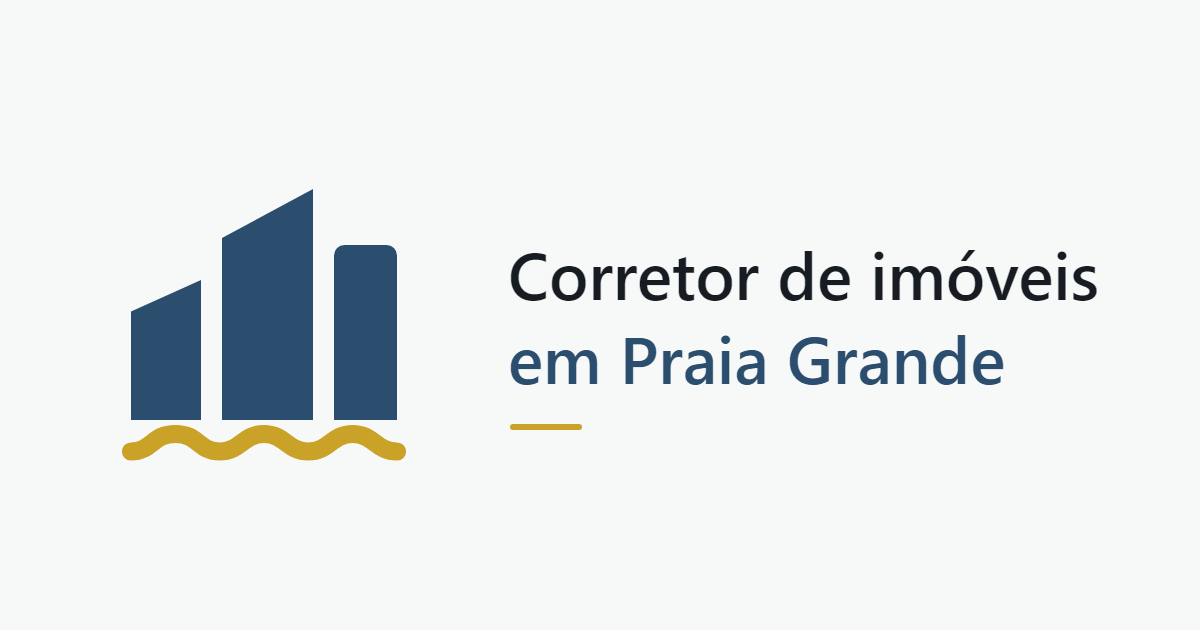
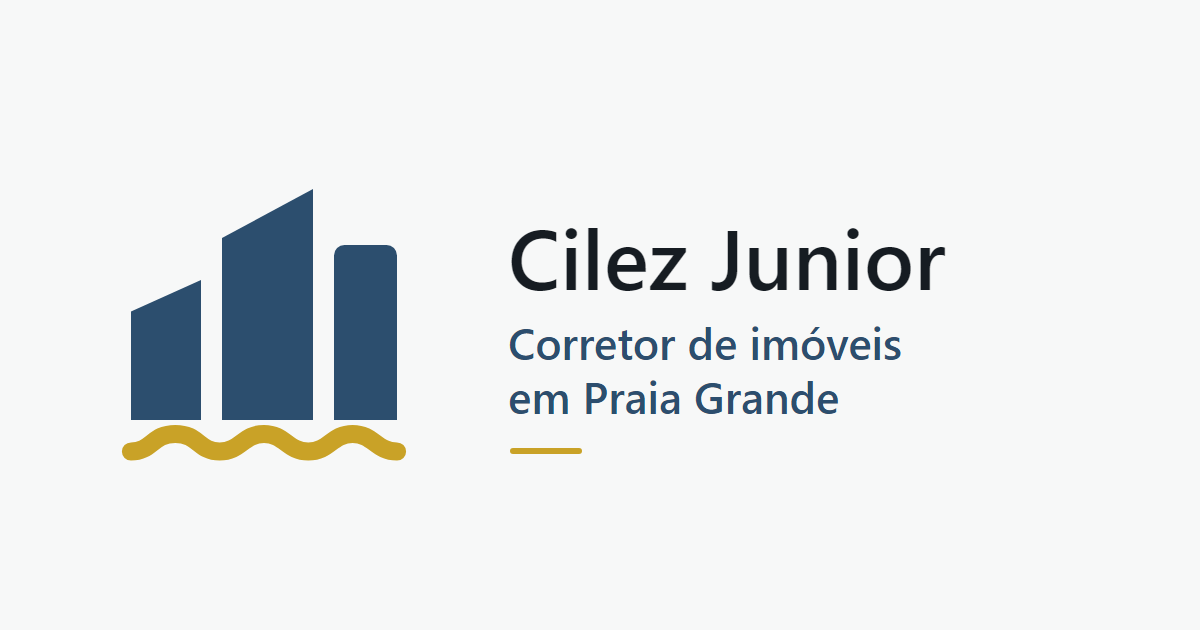
Versao final com o nome real

Changed region(s): [[0.4008, 0.5127, 0.8325, 0.7238], [0.4008, 0.3619, 0.925, 0.4825]]

diff --git a/index.html b/index.html
@@ -3,12 +3,12 @@
 <head>
 <meta charset="utf-8">
 <meta name="viewport" content="width=device-width, initial-scale=1">
-<title>Sua Marca: corretor de imóveis em Praia Grande</title>
+<title>Cilez Junior: corretor de imóveis em Praia Grande</title>
 <meta name="description" content="Corretor de imóveis em Praia Grande. Compra, venda, aluguel e avaliação, também em Santos e São Vicente.">
 <link rel="canonical" href="https://lugusofficial.github.io/corretor-imoveis-baixada-santista/">
 <meta property="og:type" content="website">
-<meta property="og:site_name" content="Sua Marca">
-<meta property="og:title" content="Sua Marca: corretor de imóveis em Praia Grande">
+<meta property="og:site_name" content="Cilez Junior">
+<meta property="og:title" content="Cilez Junior: corretor de imóveis em Praia Grande">
 <meta property="og:description" content="Corretor de imóveis em Praia Grande. Compra, venda, aluguel e avaliação, também em Santos e São Vicente.">
 <meta property="og:url" content="https://lugusofficial.github.io/corretor-imoveis-baixada-santista/">
 <meta property="og:image" content="https://lugusofficial.github.io/corretor-imoveis-baixada-santista/assets/og-image.png">
@@ -21,17 +21,17 @@
 <link rel="stylesheet" href="css/tokens.css?v=879065ac">
 <link rel="stylesheet" href="css/base.css?v=556f6445">
 <link rel="stylesheet" href="css/site.css?v=44830575">
-<script type="application/ld+json">{"@context": "https://schema.org", "@type": "RealEstateAgent", "name": "Sua Marca", "url": "https://lugusofficial.github.io/corretor-imoveis-baixada-santista/", "telephone": "+0000000000", "email": "contato@example.com", "address": {"@type": "PostalAddress", "addressLocality": "Praia Grande", "addressRegion": "SP", "addressCountry": "BR"}, "areaServed": [{"@type": "City", "name": "Praia Grande"}, {"@type": "City", "name": "Santos"}, {"@type": "City", "name": "São Vicente"}], "knowsAbout": ["Compra e venda de imóveis", "Locação residencial", "Financiamento imobiliário", "Avaliação de imóveis"], "identifier": [{"@type": "PropertyValue", "propertyID": "CRECI-SP", "value": "115749F"}, {"@type": "PropertyValue", "propertyID": "CNAI", "value": "39604"}]}</script>
+<script type="application/ld+json">{"@context": "https://schema.org", "@type": "RealEstateAgent", "name": "Cilez Junior", "url": "https://lugusofficial.github.io/corretor-imoveis-baixada-santista/", "telephone": "+0000000000", "email": "contato@example.com", "address": {"@type": "PostalAddress", "addressLocality": "Praia Grande", "addressRegion": "SP", "addressCountry": "BR"}, "areaServed": [{"@type": "City", "name": "Praia Grande"}, {"@type": "City", "name": "Santos"}, {"@type": "City", "name": "São Vicente"}], "knowsAbout": ["Compra e venda de imóveis", "Locação residencial", "Financiamento imobiliário", "Avaliação de imóveis"], "identifier": [{"@type": "PropertyValue", "propertyID": "CRECI-SP", "value": "115749F"}, {"@type": "PropertyValue", "propertyID": "CNAI", "value": "39604"}], "sameAs": ["https://www.instagram.com/cilez_junior_imoveis/"]}</script>
 <script src="js/main.js?v=4cf6c0b5" defer></script>
 <script src="js/hero.js?v=8b88a188" defer></script>
 <script src="js/depoimentos.js?v=5f2bf66a" defer></script>
 </head>
 <body>
 <a class="skip-link" href="#main">Pular para o conteúdo</a>
-<svg hidden aria-hidden="true"><symbol id="icon-menu" viewBox="0 0 24 24"><path d="M4 7h16M4 12h16M4 17h16"/></symbol><symbol id="icon-close" viewBox="0 0 24 24"><path d="M6 6l12 12M18 6L6 18"/></symbol><symbol id="icon-phone" viewBox="0 0 24 24"><path d="M5 4h4l2 5-2.5 1.5a11 11 0 0 0 5 5L15 13l5 2v4a2 2 0 0 1-2 2A16 16 0 0 1 3 6a2 2 0 0 1 2-2"/></symbol><symbol id="icon-whatsapp" viewBox="0 0 24 24"><path d="M17.472 14.382c-.297-.149-1.758-.867-2.03-.967-.273-.099-.471-.148-.67.15-.197.297-.767.966-.94 1.164-.173.199-.347.223-.644.075-.297-.15-1.255-.463-2.39-1.475-.883-.788-1.48-1.761-1.653-2.059-.173-.297-.018-.458.13-.606.134-.133.298-.347.446-.52.149-.174.198-.298.298-.497.099-.198.05-.371-.025-.52-.075-.149-.669-1.612-.916-2.207-.242-.579-.487-.5-.669-.51-.173-.008-.371-.01-.57-.01-.198 0-.52.074-.792.372-.272.297-1.04 1.016-1.04 2.479 0 1.462 1.065 2.875 1.213 3.074.149.198 2.096 3.2 5.077 4.487.709.306 1.262.489 1.694.625.712.227 1.36.195 1.871.118.571-.085 1.758-.719 2.006-1.413.248-.694.248-1.289.173-1.413-.074-.124-.272-.198-.57-.347m-5.421 7.403h-.004a9.87 9.87 0 0 1-5.031-1.378l-.361-.214-3.741.982.998-3.648-.235-.374a9.86 9.86 0 0 1-1.51-5.26c.001-5.45 4.436-9.884 9.888-9.884 2.64 0 5.122 1.03 6.988 2.898a9.825 9.825 0 0 1 2.893 6.994c-.003 5.45-4.437 9.884-9.885 9.884m8.413-18.297A11.815 11.815 0 0 0 12.05 0C5.495 0 .16 5.335.157 11.892c0 2.096.547 4.142 1.588 5.945L.057 24l6.305-1.654a11.882 11.882 0 0 0 5.683 1.448h.005c6.554 0 11.89-5.335 11.893-11.893a11.821 11.821 0 0 0-3.48-8.413z"/></symbol><symbol id="icon-map" viewBox="0 0 24 24"><path d="M12 21s-6-5.5-6-11a6 6 0 0 1 12 0c0 5.5-6 11-6 11z"/><circle cx="12" cy="10" r="2"/></symbol><symbol id="icon-mail" viewBox="0 0 24 24"><rect x="3" y="5" width="18" height="14" rx="3"/><path d="m3 7 9 6 9-6"/></symbol><symbol id="icon-chave" viewBox="0 0 24 24"><circle cx="8" cy="15" r="4"/><path d="M11 12l8-8M16 7l2 2M14 9l2 2"/></symbol><symbol id="icon-calc" viewBox="0 0 24 24"><rect x="5" y="3" width="14" height="18" rx="2.5"/><path d="M8.5 7h7M8.5 11.5h1M12 11.5h1M15.5 11.5h0M8.5 15h1M12 15h1M8.5 18h1M12 18h1M15.5 15v3"/></symbol><symbol id="icon-etiqueta" viewBox="0 0 24 24"><path d="M3 12V4.5A1.5 1.5 0 0 1 4.5 3H12l9 9-9 9z"/><circle cx="7.5" cy="7.5" r="1.5"/></symbol><symbol id="icon-casa" viewBox="0 0 24 24"><path d="M3 11l9-7 9 7"/><path d="M5 10v10h14V10"/><path d="M10 20v-5h4v5"/></symbol><symbol id="logo-simbolo" viewBox="0 0 48 48"><g fill="currentColor"><path d="M5 23.5 15 19v20H5z"/><path d="M18 13 31 6v33H18z"/><path d="M34 15.5A1.5 1.5 0 0 1 35.5 14h6a1.5 1.5 0 0 1 1.5 1.5V39h-9z"/></g><path d="M5 43.5c3 0 3-2.5 6.33-2.5s3.33 2.5 6.33 2.5 3.34-2.5 6.34-2.5 3.33 2.5 6.33 2.5 3.33-2.5 6.33-2.5S40 43.5 43 43.5" fill="none" stroke="#C9A227" stroke-width="2.6" stroke-linecap="round"/></symbol><symbol id="icon-arrow" viewBox="0 0 24 24"><path d="M5 12h14M13 6l6 6-6 6"/></symbol></svg>
+<svg hidden aria-hidden="true"><symbol id="icon-menu" viewBox="0 0 24 24"><path d="M4 7h16M4 12h16M4 17h16"/></symbol><symbol id="icon-close" viewBox="0 0 24 24"><path d="M6 6l12 12M18 6L6 18"/></symbol><symbol id="icon-phone" viewBox="0 0 24 24"><path d="M5 4h4l2 5-2.5 1.5a11 11 0 0 0 5 5L15 13l5 2v4a2 2 0 0 1-2 2A16 16 0 0 1 3 6a2 2 0 0 1 2-2"/></symbol><symbol id="icon-whatsapp" viewBox="0 0 24 24"><path d="M17.472 14.382c-.297-.149-1.758-.867-2.03-.967-.273-.099-.471-.148-.67.15-.197.297-.767.966-.94 1.164-.173.199-.347.223-.644.075-.297-.15-1.255-.463-2.39-1.475-.883-.788-1.48-1.761-1.653-2.059-.173-.297-.018-.458.13-.606.134-.133.298-.347.446-.52.149-.174.198-.298.298-.497.099-.198.05-.371-.025-.52-.075-.149-.669-1.612-.916-2.207-.242-.579-.487-.5-.669-.51-.173-.008-.371-.01-.57-.01-.198 0-.52.074-.792.372-.272.297-1.04 1.016-1.04 2.479 0 1.462 1.065 2.875 1.213 3.074.149.198 2.096 3.2 5.077 4.487.709.306 1.262.489 1.694.625.712.227 1.36.195 1.871.118.571-.085 1.758-.719 2.006-1.413.248-.694.248-1.289.173-1.413-.074-.124-.272-.198-.57-.347m-5.421 7.403h-.004a9.87 9.87 0 0 1-5.031-1.378l-.361-.214-3.741.982.998-3.648-.235-.374a9.86 9.86 0 0 1-1.51-5.26c.001-5.45 4.436-9.884 9.888-9.884 2.64 0 5.122 1.03 6.988 2.898a9.825 9.825 0 0 1 2.893 6.994c-.003 5.45-4.437 9.884-9.885 9.884m8.413-18.297A11.815 11.815 0 0 0 12.05 0C5.495 0 .16 5.335.157 11.892c0 2.096.547 4.142 1.588 5.945L.057 24l6.305-1.654a11.882 11.882 0 0 0 5.683 1.448h.005c6.554 0 11.89-5.335 11.893-11.893a11.821 11.821 0 0 0-3.48-8.413z"/></symbol><symbol id="icon-map" viewBox="0 0 24 24"><path d="M12 21s-6-5.5-6-11a6 6 0 0 1 12 0c0 5.5-6 11-6 11z"/><circle cx="12" cy="10" r="2"/></symbol><symbol id="icon-mail" viewBox="0 0 24 24"><rect x="3" y="5" width="18" height="14" rx="3"/><path d="m3 7 9 6 9-6"/></symbol><symbol id="icon-chave" viewBox="0 0 24 24"><circle cx="8" cy="15" r="4"/><path d="M11 12l8-8M16 7l2 2M14 9l2 2"/></symbol><symbol id="icon-calc" viewBox="0 0 24 24"><rect x="5" y="3" width="14" height="18" rx="2.5"/><path d="M8.5 7h7M8.5 11.5h1M12 11.5h1M15.5 11.5h0M8.5 15h1M12 15h1M8.5 18h1M12 18h1M15.5 15v3"/></symbol><symbol id="icon-etiqueta" viewBox="0 0 24 24"><path d="M3 12V4.5A1.5 1.5 0 0 1 4.5 3H12l9 9-9 9z"/><circle cx="7.5" cy="7.5" r="1.5"/></symbol><symbol id="icon-casa" viewBox="0 0 24 24"><path d="M3 11l9-7 9 7"/><path d="M5 10v10h14V10"/><path d="M10 20v-5h4v5"/></symbol><symbol id="logo-simbolo" viewBox="0 0 48 48"><g fill="currentColor"><path d="M5 23.5 15 19v20H5z"/><path d="M18 13 31 6v33H18z"/><path d="M34 15.5A1.5 1.5 0 0 1 35.5 14h6a1.5 1.5 0 0 1 1.5 1.5V39h-9z"/></g><path d="M5 43.5c3 0 3-2.5 6.33-2.5s3.33 2.5 6.33 2.5 3.34-2.5 6.34-2.5 3.33 2.5 6.33 2.5 3.33-2.5 6.33-2.5S40 43.5 43 43.5" fill="none" stroke="#C9A227" stroke-width="2.6" stroke-linecap="round"/></symbol><symbol id="icon-instagram" viewBox="0 0 24 24"><rect x="3" y="3" width="18" height="18" rx="5"/><circle cx="12" cy="12" r="4"/><circle cx="17.5" cy="6.5" r="0.6"/></symbol><symbol id="icon-arrow" viewBox="0 0 24 24"><path d="M5 12h14M13 6l6 6-6 6"/></symbol></svg>
 <header class="site-header">
   <div class="container site-header__inner">
-    <a class="brand" href="#top"><svg class="brand__simbolo" aria-hidden="true" focusable="false"><use href="#logo-simbolo"></use></svg>Sua Marca</a>
+    <a class="brand" href="#top"><svg class="brand__simbolo" aria-hidden="true" focusable="false"><use href="#logo-simbolo"></use></svg>Cilez Junior</a>
     <button class="nav-toggle" type="button" aria-expanded="false" aria-controls="site-nav">
       <svg class="icon icon--menu" aria-hidden="true" focusable="false"><use href="#icon-menu"></use></svg><svg class="icon icon--close" aria-hidden="true" focusable="false" hidden><use href="#icon-close"></use></svg>
       <span class="visually-hidden">Menu</span>
@@ -153,6 +153,7 @@
       <ul class="contact__links cluster">
         <li><a href="tel:+0000000000"><svg class="icon" aria-hidden="true" focusable="false"><use href="#icon-phone"></use></svg>(00) 0000-0000</a></li>
         <li><a href="mailto:contato@example.com"><svg class="icon" aria-hidden="true" focusable="false"><use href="#icon-mail"></use></svg>contato@example.com</a></li>
+        <li><a href="https://www.instagram.com/cilez_junior_imoveis/"><svg class="icon" aria-hidden="true" focusable="false"><use href="#icon-instagram"></use></svg>@cilez_junior_imoveis</a></li>
       </ul>
       <p class="muted">Visitas com hora marcada.</p>
     </div>
@@ -160,10 +161,10 @@
 </main>
 <footer class="site-footer">
   <div class="container stack">
-    <p class="brand"><svg class="brand__simbolo" aria-hidden="true" focusable="false"><use href="#logo-simbolo"></use></svg>Sua Marca</p>
+    <p class="brand"><svg class="brand__simbolo" aria-hidden="true" focusable="false"><use href="#logo-simbolo"></use></svg>Cilez Junior</p>
     <nav aria-label="Rodapé"><ul><li><a href="#galeria">Galeria</a></li><li><a href="#servicos">Serviços</a></li><li><a href="#sobre">Sobre</a></li><li><a href="#contato">Contato</a></li></ul></nav>
-    <p>Praia Grande, SP <span aria-hidden="true">·</span> CRECISP 115749F<br><a href="tel:+0000000000">(00) 0000-0000</a> <span aria-hidden="true">·</span> <a href="mailto:contato@example.com">contato@example.com</a></p>
-    <p>© <span data-year>2026</span> Sua Marca. Todos os direitos reservados.</p>
+    <p>Praia Grande, SP <span aria-hidden="true">·</span> CRECISP 115749F<br><a href="tel:+0000000000">(00) 0000-0000</a> <span aria-hidden="true">·</span> <a href="mailto:contato@example.com">contato@example.com</a> <span aria-hidden="true">·</span> <a href="https://www.instagram.com/cilez_junior_imoveis/">Instagram</a></p>
+    <p>© <span data-year>2026</span> Cilez Junior. Todos os direitos reservados.</p>
   </div>
 </footer>
 </body>
